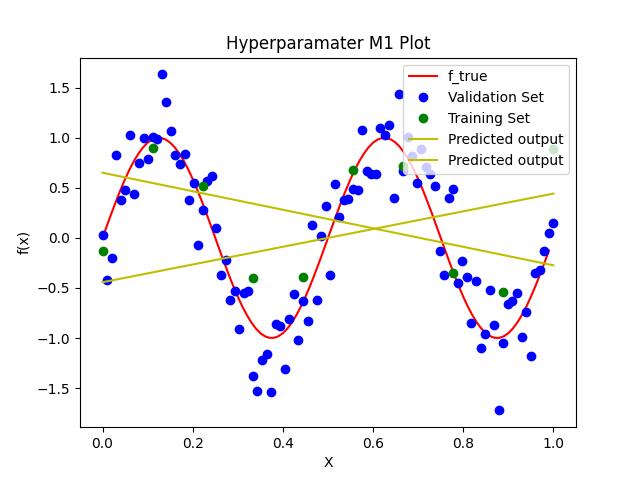
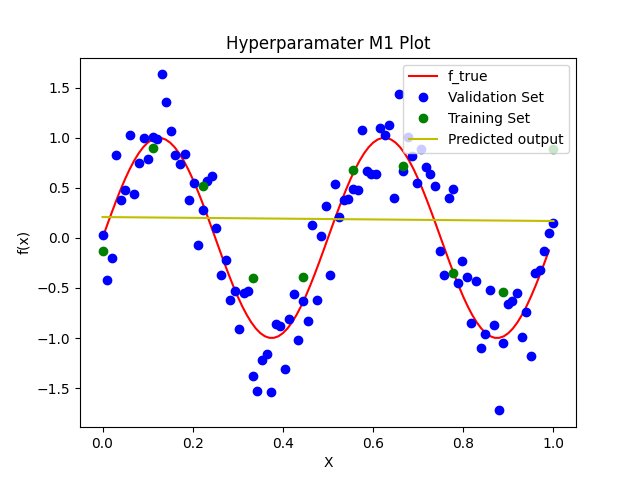
error calculations not working

diff --git a/lab-1/main.py b/lab-1/main.py
@@ -40,8 +40,8 @@ class LinearRegressionModelling():
         for m in self.models:
             self.models[m]['X_m'] = self.generate_X_m(i, self.X_train)
             i += 1
-            self.models[m]['w'] = self.train_w(
-                self.models[m]['X_m'], self.t_train)
+            self.models[m]['w'] = self.train_w(self.models[m]['X_m'], 
+                                               self.t_train)
 
     def generate_X_m(self, M: int, X):
         '''
@@ -62,12 +62,15 @@ class LinearRegressionModelling():
         '''
         Calculate the weights when training a set of examples for a given target set
         '''
-        num_rows, num_col = np.shape(X)  # get the number of examples
+        t = np.array([t]).T
         XTX = np.dot(X.T, X)
         if np.linalg.det(XTX) == 0:
+            num_rows, num_col = np.shape(X)  # get the number of examples
             w = np.zeros((num_rows, 1))
         else:
-            w = (np.linalg.inv(XTX)) * np.dot(X.T, t)
+            a = np.linalg.inv(XTX)
+            b = np.dot(X.T, t)
+            w = np.dot(a,b)
 
         return w
 
@@ -76,14 +79,19 @@ class LinearRegressionModelling():
         Calculate the error (training or validation) based on given training data, weights,
         and a target set (training or validation)
         '''
+        t = np.array([t]).T
         num_rows, num_col = np.shape(X)  # get the number of examples
-        error = (1 / num_col) * (X*w - t).T * (X*w - t)
+        Xw = np.dot(X, w)
+        error = (1 / num_rows) * np.dot((Xw - t).T, (Xw - t))
+
+        return error
 
     def generate_model_plot(self, m: int):
         '''
         Generates a plot for a model, calculating (and plotting) the training and validation error as well
         '''
-        fig = plt.figure()
+        # m is used to act as a unique identifier for the figure so we don't add data to the same plot every time
+        fig = plt.figure(m)
         # 111 to specify that 1x1 subplots are on the graph
         axis = fig.add_subplot(111)
         f_true_x = np.arange(0, 1, 0.01)
@@ -109,6 +117,7 @@ class LinearRegressionModelling():
         plt.xlabel('X')
         plt.ylabel('f(x)')
         plt.legend(loc='upper right')
+
         fig.savefig(f'figures/M{m}.png')
 
 
@@ -120,6 +129,34 @@ def main():
     lm.train_model()
     for i in range(len(lm.models)):
         lm.generate_model_plot(m=i)
+
+    # Get training and validation error
+    error_fig = plt.figure('error')
+    axis = error_fig.add_subplot(111)
+    x = [0,1,2,3,4,5,6,7,8,9]
+    train_err = []
+    valid_err = []
+
+    i = 0
+    for model in lm.models:
+        err_t = lm.calc_error(X=lm.models[model]['X_m'],
+                            w=lm.models[model]['w'],
+                            t=lm.t_train)
+        print(err_t)
+        # X_m_val = lm.generate_X_m(M=i, X=lm.X_valid)
+        # err_v = lm.calc_error(X=X_m_val,
+        #                       w=lm.models[model]['w'],
+        #                       t=lm.t_valid)
+        # valid_err.append(err_v)
+        train_err.append(err_t[0][0])
+
+    axis.plot(x, train_err, 'r', label='Training Error')
+    axis.plot(x, valid_err, 'b', label='Validation Error')
+    plt.title('Training and Validation Error')
+    plt.xlabel('M')
+    plt.ylabel('Error (Mean squared error)')
+    plt.legend(loc='upper right')
+    error_fig.savefig('figures/ErrorPlot.png')
 
 
 main()

diff --git a/lab-1/report.md b/lab-1/report.md
@@ -1,0 +1,28 @@
+# Lab 1
+
+## Trained Predictors vs f_true graphs
+
+Below is each graph for M=0 to M=9 of the linear regression model. At M=9, you can see that the predicted function passes throguh each point of the training data, shown in green. 
+
+![Figure 1 M0 plot](figures/M0.png)
+
+![Figure 1 M0 plot](figures/M1.png)
+
+![Figure 1 M0 plot](figures/M2.png)
+
+![Figure 1 M0 plot](figures/M3.png)
+
+![Figure 1 M0 plot](figures/M4.png)
+
+![Figure 1 M0 plot](figures/M5.png)
+
+![Figure 1 M0 plot](figures/M6.png)
+
+![Figure 1 M0 plot](figures/M7.png)
+
+![Figure 1 M0 plot](figures/M8.png)
+
+![Figure 1 M0 plot](figures/M9.png)
+
+Below is the plot of the training and validation error vs. the dimension of the regression model, before regularization is performed on M=9:
+
